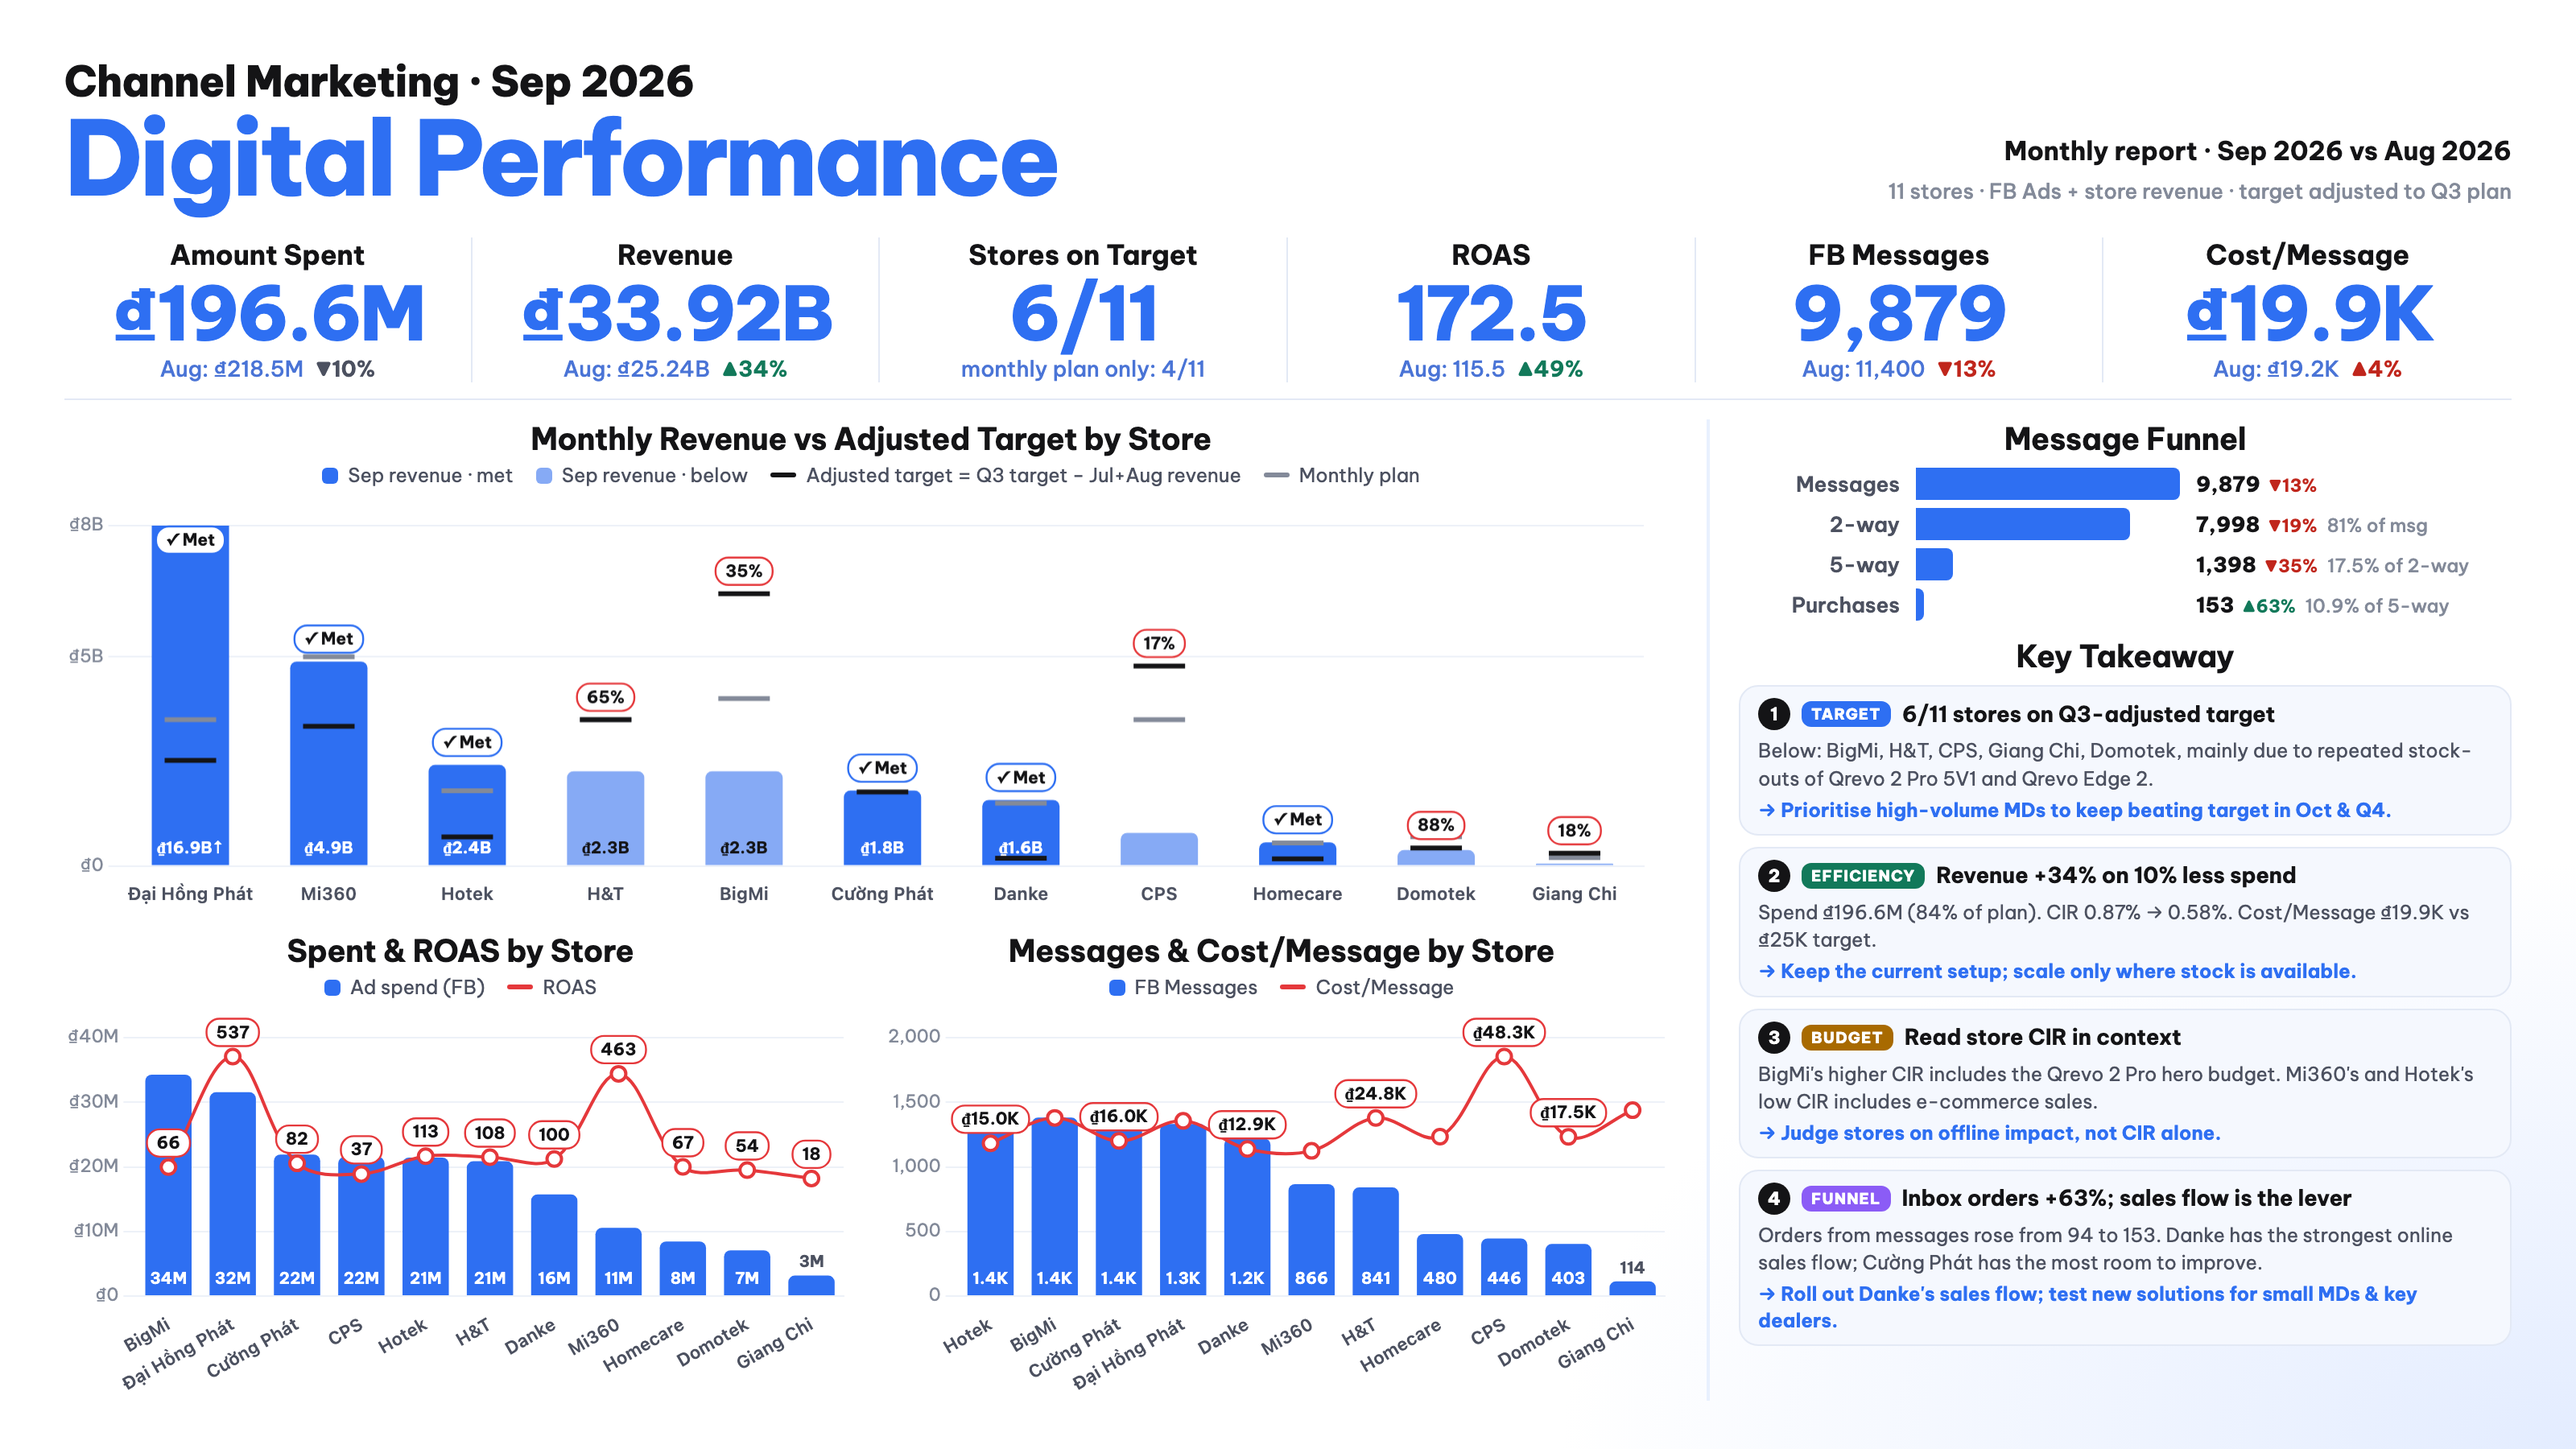
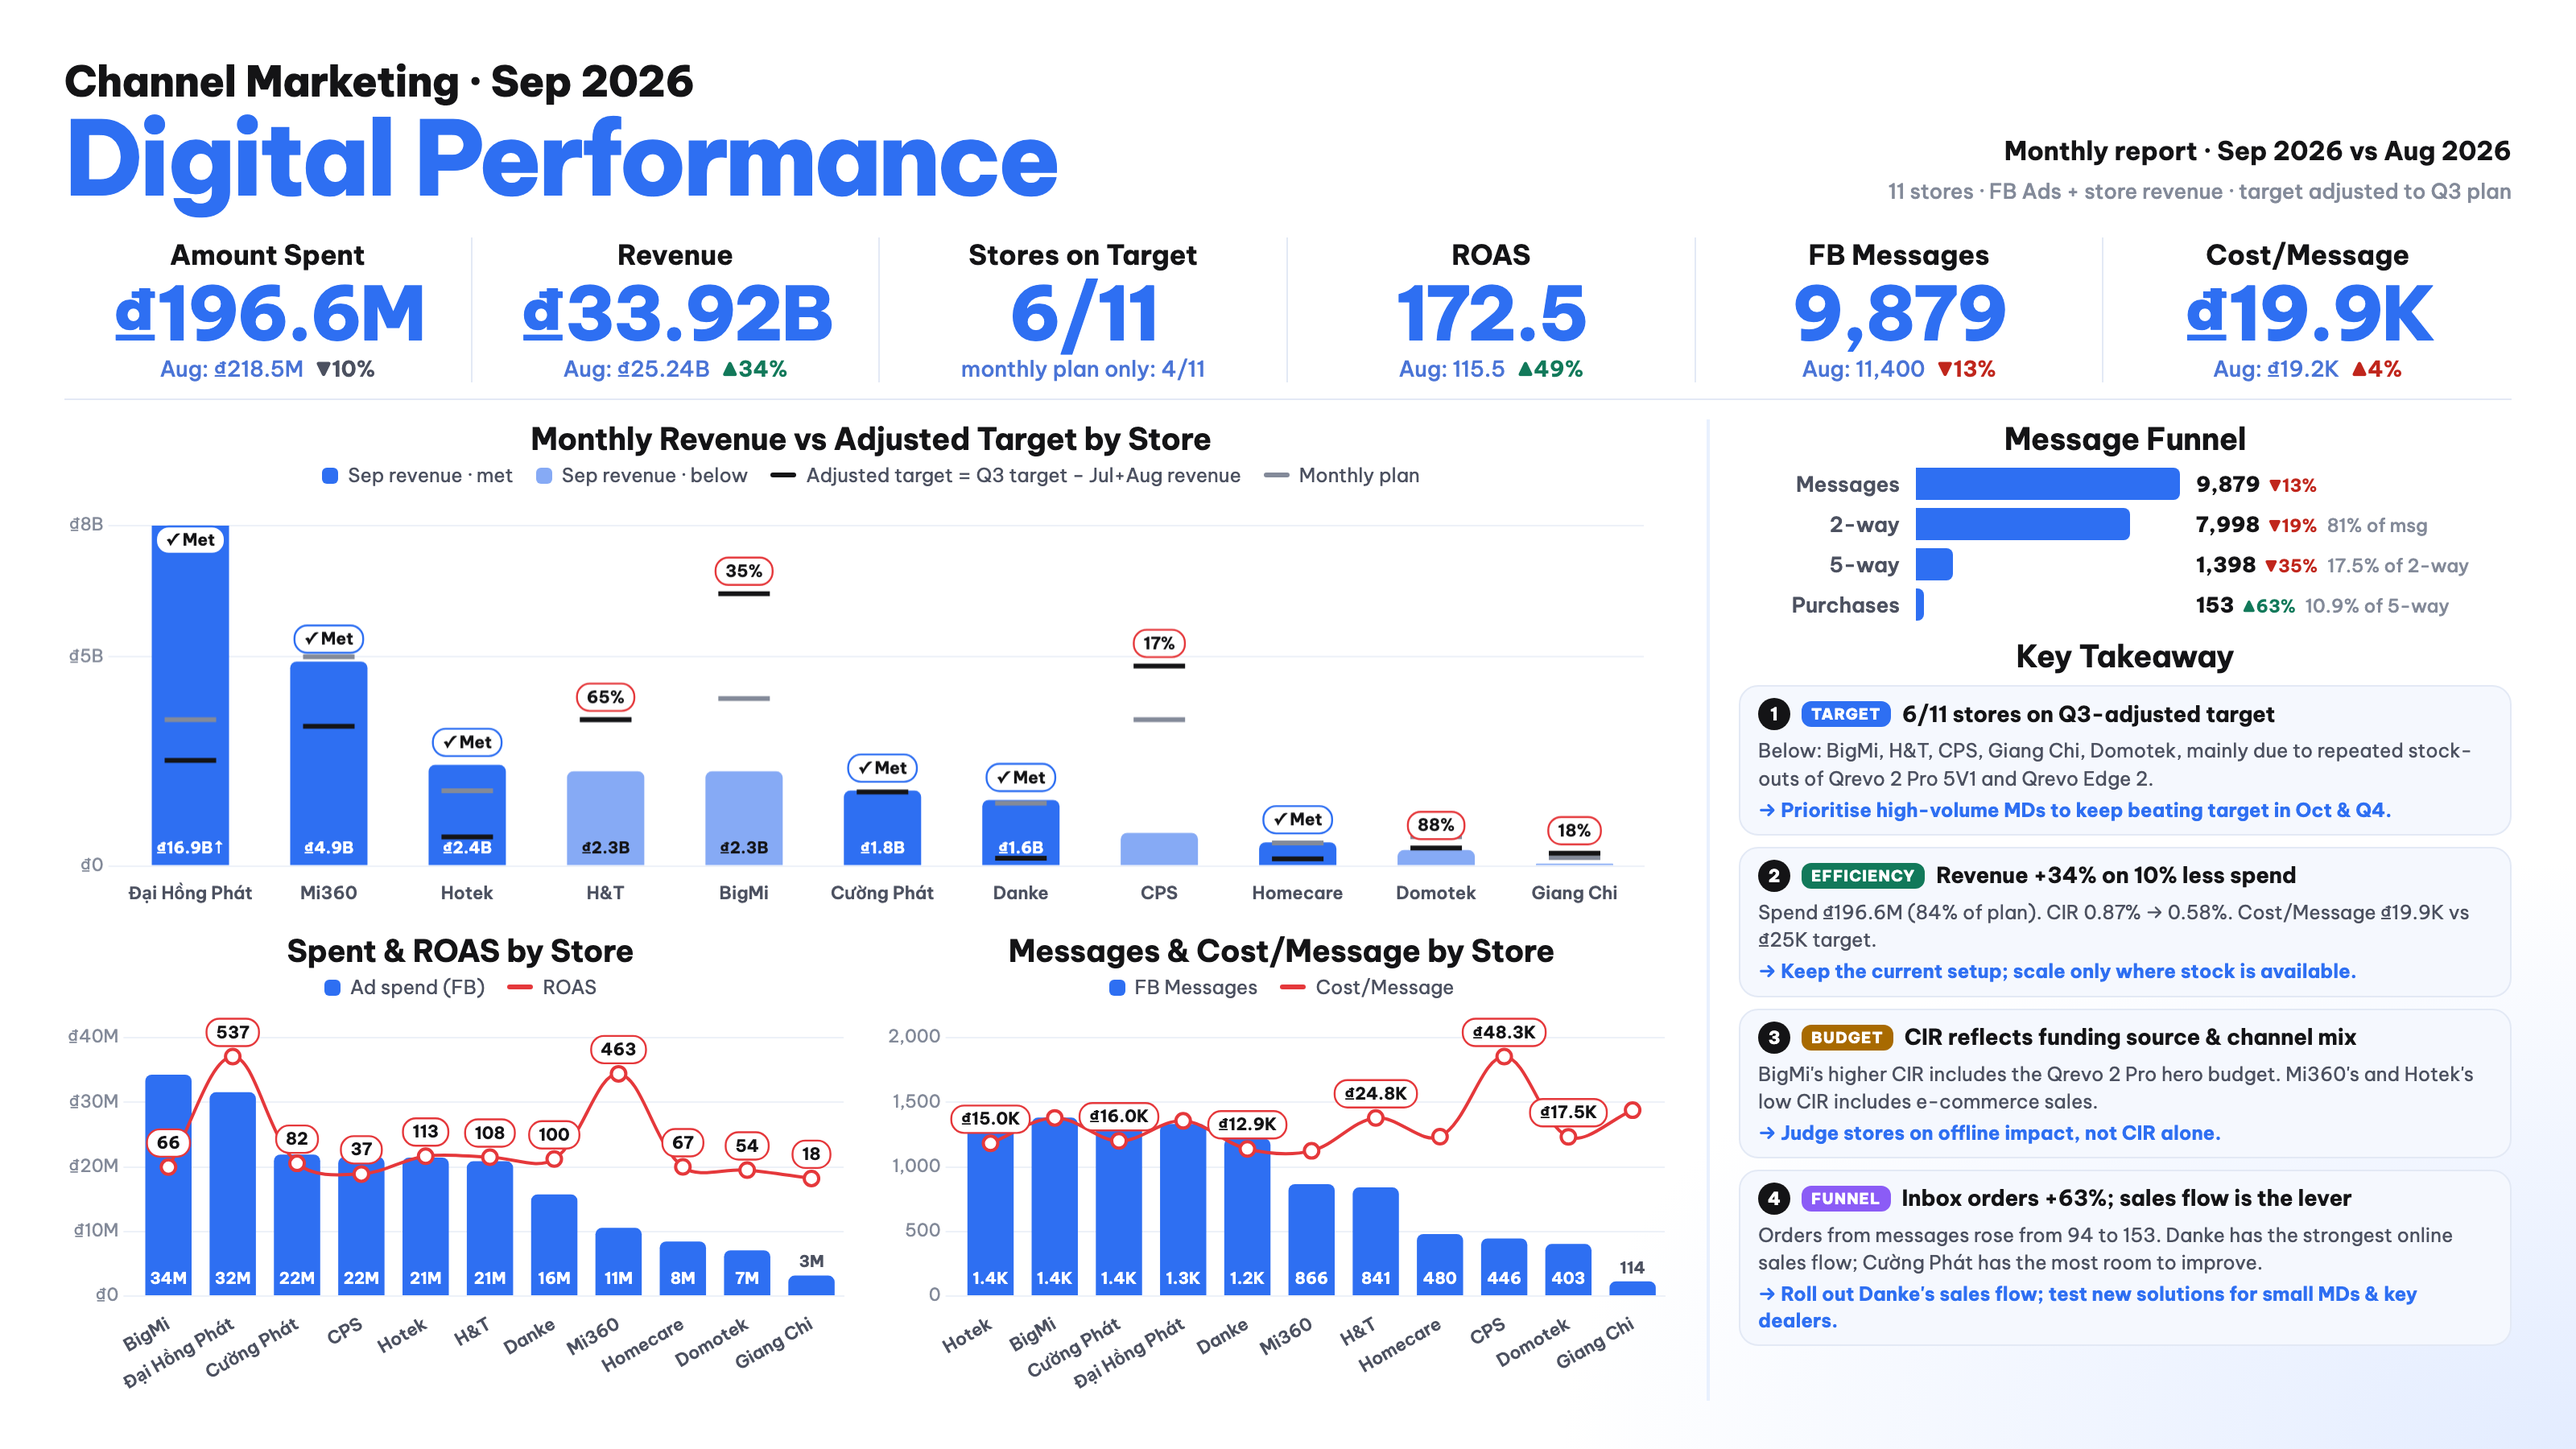
fix: sharper headline for Sep 2026 CIR takeaway

diff --git a/bao-cao-digital-performance-2026-09.html b/bao-cao-digital-performance-2026-09.html
@@ -1404,7 +1404,7 @@ const MONTH_NOTES = {
       ['efficiency', 'Revenue +34% on 10% less spend',
         'Spend ₫196.6M (84% of plan). CIR 0.87% → 0.58%. Cost/Message ₫19.9K vs ₫25K target.',
         'Keep the current setup; scale only where stock is available.'],
-      ['budget', 'Read store CIR in context',
+      ['budget', 'CIR reflects funding source & channel mix',
         'BigMi\'s higher CIR includes the Qrevo 2 Pro hero budget. Mi360\'s and Hotek\'s low CIR includes e-commerce sales.',
         'Judge stores on offline impact, not CIR alone.'],
       ['funnel', 'Inbox orders +63%; sales flow is the lever',

diff --git a/index.html b/index.html
@@ -1404,7 +1404,7 @@ const MONTH_NOTES = {
       ['efficiency', 'Revenue +34% on 10% less spend',
         'Spend ₫196.6M (84% of plan). CIR 0.87% → 0.58%. Cost/Message ₫19.9K vs ₫25K target.',
         'Keep the current setup; scale only where stock is available.'],
-      ['budget', 'Read store CIR in context',
+      ['budget', 'CIR reflects funding source & channel mix',
         'BigMi\'s higher CIR includes the Qrevo 2 Pro hero budget. Mi360\'s and Hotek\'s low CIR includes e-commerce sales.',
         'Judge stores on offline impact, not CIR alone.'],
       ['funnel', 'Inbox orders +63%; sales flow is the lever',

diff --git a/src/report-insights.js b/src/report-insights.js
@@ -45,7 +45,7 @@ const MONTH_NOTES = {
       ['efficiency', 'Revenue +34% on 10% less spend',
         'Spend ₫196.6M (84% of plan). CIR 0.87% → 0.58%. Cost/Message ₫19.9K vs ₫25K target.',
         'Keep the current setup; scale only where stock is available.'],
-      ['budget', 'Read store CIR in context',
+      ['budget', 'CIR reflects funding source & channel mix',
         'BigMi\'s higher CIR includes the Qrevo 2 Pro hero budget. Mi360\'s and Hotek\'s low CIR includes e-commerce sales.',
         'Judge stores on offline impact, not CIR alone.'],
       ['funnel', 'Inbox orders +63%; sales flow is the lever',
